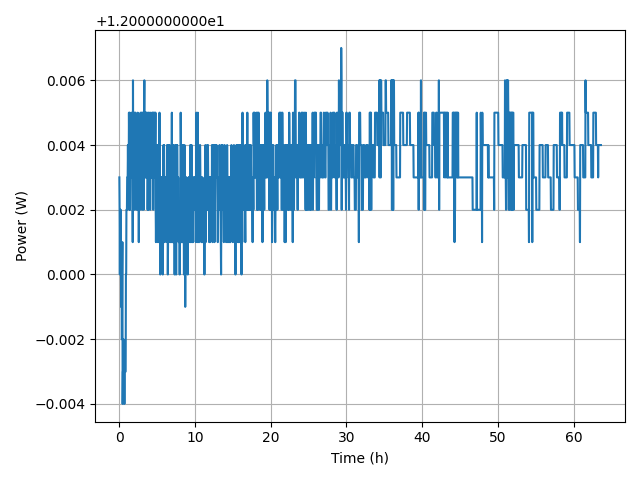
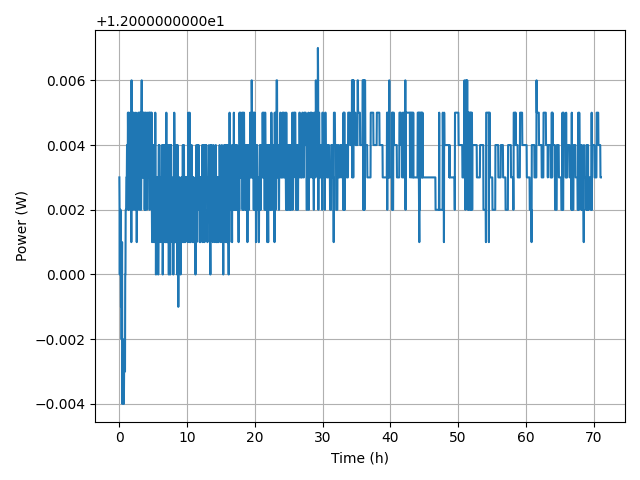
Update plots

diff --git a/code/DischargeDataCollector.py b/code/DischargeDataCollector.py
@@ -17,7 +17,7 @@ hour = 60 * min
 day = 24 * hour
 
 # Parameters
-RUN_ID = "3"
+RUN_ID = "3.1"
 COM_PORT = "COM4"
 CW_POWER = 12 # CW power in W
 MEASURING_TIME = 72 * hour # Measuring time in s
